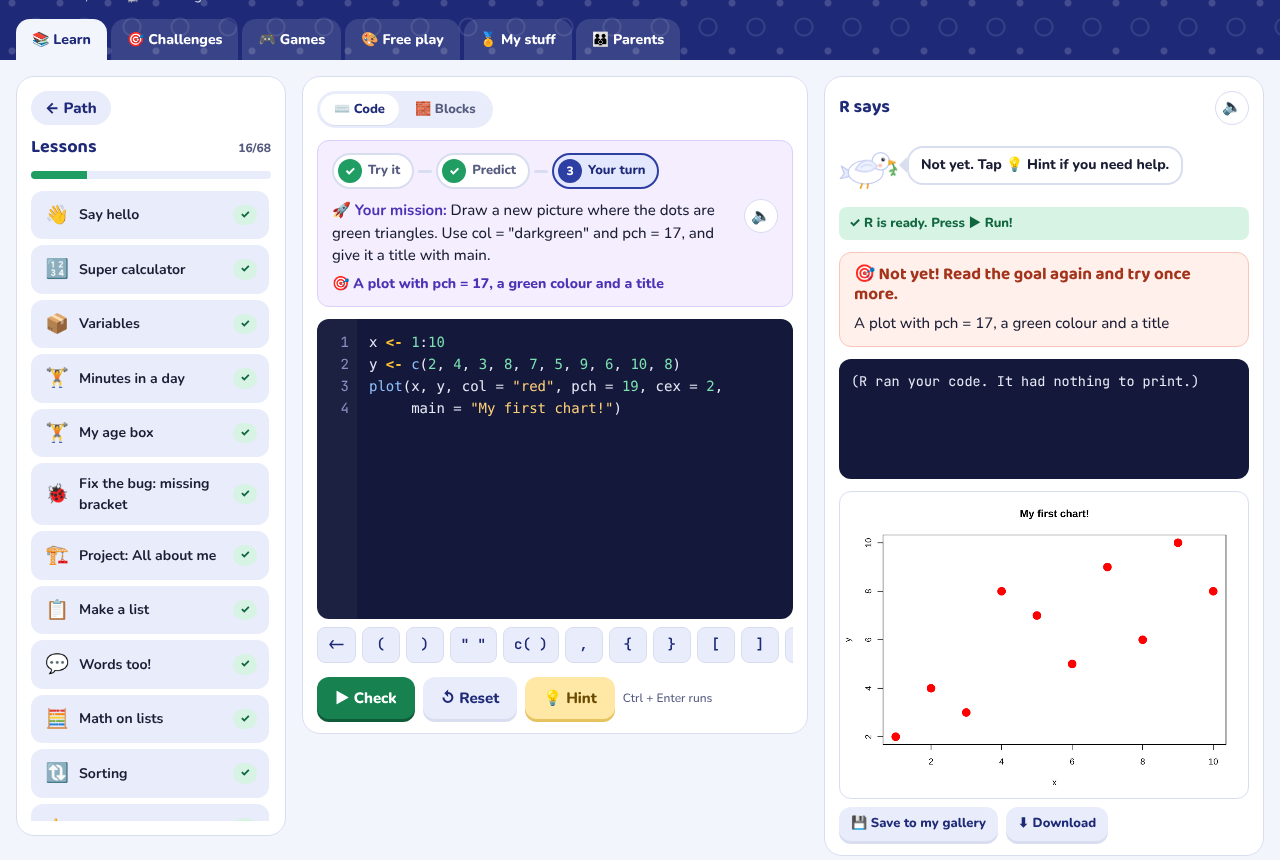
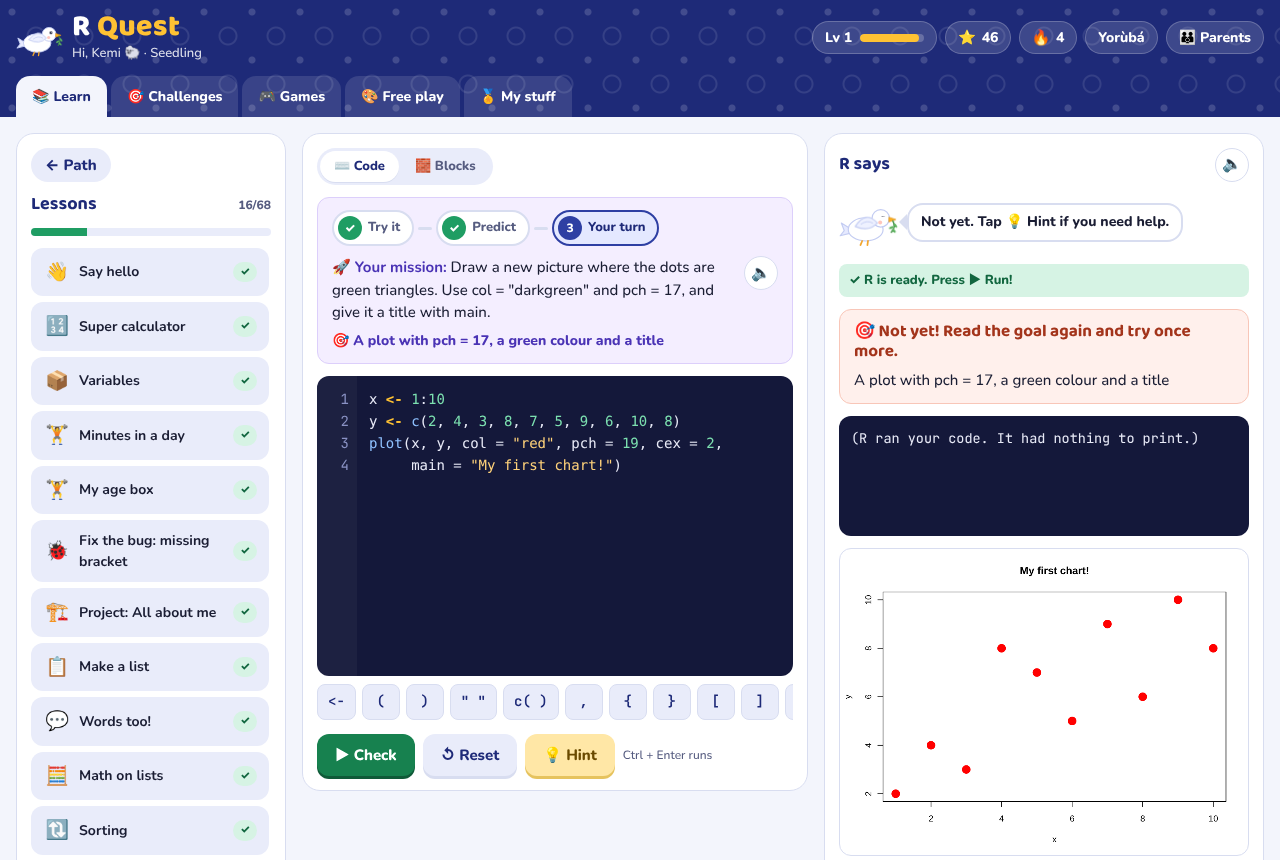
Simpler interface: Parents beside the language button, units open one at a time, privacy note
- Parents moves from the tab row to the header, next to the language button;
  sound and text size live in My stuff > Settings, so the header is shorter
- Tabs fit on phones (icon above the word); no more hidden tabs
- Each unit opens only when the one before is finished; locked units show a
  short line instead of a long list of locked nodes
- 'What you will learn' is open by default and remembers if it is closed
- A short privacy note appears once, after the first finished lesson, with a
  link to the full notice and a button to turn off usage counts
- Removed the duplicate Challenges and Games tiles from the path

Claude-Session: https://claude.ai/code/session_01TK9icYBWm4RS4hdjH1i5D8

diff --git a/index.html b/index.html
@@ -118,6 +118,17 @@
   }
   .tab:hover { background: rgba(255,255,255,.22); }
   .tab[aria-selected="true"] { background: var(--paper); color: var(--indigo); }
+  .parents-pill[aria-pressed="true"] { background: var(--sun); border-color: var(--sun); color: var(--indigo); }
+  @media (max-width: 640px) {
+    .hud { gap: 6px; }
+    .pill { padding: 4px 9px; font-size: 13px; gap: 4px; }
+    .level-bar { display: none; }
+    .tabs { display: grid; grid-template-columns: repeat(5, minmax(0, 1fr)); gap: 3px; overflow: visible; }
+    .tab { display: flex; flex-direction: column; align-items: center; gap: 1px; padding: 7px 2px 8px; font-size: 11.5px; border-radius: 12px 12px 0 0; min-width: 0; }
+    .tab-ic { font-size: 20px; line-height: 1.1; }
+    .tab-tx { max-width: 100%; overflow: hidden; text-overflow: ellipsis; white-space: nowrap; }
+    .kbd { display: none; }
+  }
 
   /* ---------- Studio ---------- */
   .studio {
@@ -645,9 +656,14 @@
   .uage { display: inline-block; margin-top: 4px; font-size: 12px; font-weight: 800; background: rgba(255,255,255,.22); border-radius: 99px; padding: 2px 10px; }
   .uright { display: flex; flex-direction: column; align-items: flex-end; gap: 6px; }
   .cert-btn { border: 0; background: #fff; color: var(--indigo); font-weight: 800; font-size: 13px; border-radius: 99px; padding: 5px 12px; box-shadow: 0 3px 0 rgba(0,0,0,.2); }
-  .uout { margin: 10px 4px 0; font-size: 14px; }
-  .uout summary { cursor: pointer; font-weight: 800; color: var(--muted); }
-  .uout ul { margin: 6px 0 0; padding-left: 20px; display: flex; flex-direction: column; gap: 2px; }
+  .uout { margin: 10px 0 0; font-size: 14px; background: var(--card); border: 1px solid var(--line); border-left: 5px solid var(--u); border-radius: 14px; padding: 10px 14px; }
+  .uout summary { cursor: pointer; font-weight: 800; color: var(--indigo); list-style: none; display: flex; align-items: center; justify-content: space-between; gap: 8px; }
+  .uout summary::-webkit-details-marker { display: none; }
+  .uout summary::after { content: "▾"; font-size: 16px; transition: transform .15s; }
+  .uout:not([open]) summary::after { transform: rotate(-90deg); }
+  .uout ul { margin: 8px 0 0; padding-left: 20px; display: flex; flex-direction: column; gap: 3px; }
+  .unit.locked { background-color: #6E7397; }
+  .ulock { margin: 10px 4px 0; font-weight: 800; color: var(--muted); font-size: 14px; }
   .tile.solved { border-color: var(--leaf); background: #F0FAF4; }
   .grad { margin: 26px auto 0; display: flex; justify-content: center; }
 
@@ -670,6 +686,8 @@
   .moods button[aria-checked="true"] { border-color: var(--sun); background: #FFF3CF; }
   .sheet textarea { width: 100%; border: 2px solid var(--line); border-radius: var(--r-md); padding: 10px 12px; font-size: 15px; resize: vertical; min-height: 80px; }
   .sr-only { position: absolute; width: 1px; height: 1px; overflow: hidden; clip: rect(0 0 0 0); white-space: nowrap; }
+  .pn-list { list-style: none; margin: 0; padding: 0; display: flex; flex-direction: column; gap: 8px; text-align: left; font-weight: 700; }
+  .pn-list li { display: flex; gap: 10px; align-items: flex-start; }
   .fine-link { font-size: 13px; color: var(--indigo-2); font-weight: 800; text-align: center; }
   @media (max-width: 480px) { .moods { grid-template-columns: repeat(3, minmax(0,1fr)); } }
 
@@ -733,9 +751,8 @@
         <span class="pill" title="Stars">⭐ <span id="stars">0</span></span>
         <span class="pill" id="streak-pill" title="Streak"><span class="flame">🔥</span> <span id="streak">0</span></span>
         <span class="pill cloud-pill" id="cloud-pill" hidden>☁</span>
-        <button class="pill" id="sound-btn" type="button" aria-label="Sound on or off">🔊</button>
-        <button class="pill" id="big-btn" type="button" aria-pressed="false" aria-label="Bigger text">A+</button>
         <button class="pill" id="lang-btn" type="button">Yorùbá</button>
+        <button class="pill parents-pill" id="parents-btn" data-tab="parents" type="button" aria-pressed="false">👪 Parents</button>
       </div>
     </div>
     <nav class="tabs" role="tablist" aria-label="Sections">
@@ -744,7 +761,6 @@
       <button class="tab" role="tab" data-tab="games" aria-selected="false">🎮 Games</button>
       <button class="tab" role="tab" data-tab="free" aria-selected="false">🎨 Free play</button>
       <button class="tab" role="tab" data-tab="stuff" aria-selected="false">🏅 My stuff</button>
-      <button class="tab" role="tab" data-tab="parents" aria-selected="false">👪 Parents</button>
     </nav>
   </div>
 </header>
@@ -875,6 +891,18 @@
   <div class="cbox"><div class="big" id="c-emoji">🎉</div><div class="msg" id="c-msg"></div><div class="pts" id="c-pts"></div></div>
 </div>
 <div class="toast" id="toast" role="status" hidden></div>
+<div class="scrim" id="privacy-note" hidden>
+  <div class="sheet center" role="dialog" aria-modal="true" aria-labelledby="pn-title">
+    <span class="sq-big" aria-hidden="true">🔒</span>
+    <h2 id="pn-title">A quick note about privacy</h2>
+    <ul class="pn-list" id="pn-list"></ul>
+    <div class="actions center">
+      <button class="btn btn-run" type="button" id="pn-ok">OK, got it</button>
+      <a class="btn btn-2" href="privacy.html" target="_blank" rel="noopener" id="pn-more">Read more</a>
+    </div>
+    <button class="linkbtn" type="button" id="pn-off">Turn off usage counts</button>
+  </div>
+</div>
 <div class="scrim" id="speedquiz" hidden>
   <div class="sheet wide" role="dialog" aria-modal="true" aria-labelledby="sq-h" id="sq-body"></div>
 </div>
@@ -1008,6 +1036,10 @@ const I18N = {
     del_done: 'Your family account has been deleted.', del_fail: 'Could not delete the account. Please try again, or see the privacy page for help.',
     ob_privacy: "How we protect children's privacy", rep_projects: 'Projects', rep_puzzle: 'puzzle streak',
     usage_switch: 'Share anonymous usage counts (no names) to help improve the lessons',
+    unit_locked: 'Finish Unit {n} to open this unit.',
+    pn_title: 'A quick note about privacy', pn_1: 'Your progress is saved on this device.',
+    pn_2: 'R Quest counts finished lessons, with no names, to make the lessons better.', pn_3: 'No adverts, and we never sell anything.',
+    pn_ok: 'OK, got it', pn_more: 'Read more', pn_off: 'Turn off usage counts', pn_off_done: 'Usage counts are off ✓',
   },
   yo: {
     tab_learn: '📚 Ẹ̀kọ́', tab_challenge: '🎯 Ìdíje', tab_games: '🎮 Eré', tab_free: '🎨 Eré ọ̀fẹ́', tab_stuff: '🏅 Tèmi',
@@ -1099,6 +1131,10 @@ const I18N = {
     del_done: 'A ti pa àkáǹtì ìdílé rẹ rẹ́.', del_fail: 'A kò lè pa àkáǹtì náà rẹ́. Jọ̀wọ́ gbìyànjú lẹ́ẹ̀kan sí, tàbí wo ojú-ìwé àṣírí fún ìrànlọ́wọ́.',
     ob_privacy: 'Bí a ṣe ń dáàbò bo àṣírí àwọn ọmọdé', rep_projects: 'Iṣẹ́ àkànṣe', rep_puzzle: 'àdìtú léraléra',
     usage_switch: 'Pín kíka ìlò láìsí orúkọ láti ràn wá lọ́wọ́ láti mú àwọn ẹ̀kọ́ dára sí i',
+    unit_locked: 'Parí Ìpín {n} láti ṣí ìpín yìí.',
+    pn_title: 'Ọ̀rọ̀ kúkúrú nípa àṣírí', pn_1: 'Ìlọsíwájú rẹ wà ní ìpamọ́ lórí ẹ̀rọ yìí.',
+    pn_2: 'R Quest ń ka àwọn ẹ̀kọ́ tí a parí, láìsí orúkọ, láti mú àwọn ẹ̀kọ́ dára sí i.', pn_3: 'Kò sí ìpolówó, a kò sì ń ta nǹkan kankan.',
+    pn_ok: 'Ó dáa, mo gbọ́', pn_more: 'Kà sí i', pn_off: 'Pa kíka ìlò', pn_off_done: 'A ti pa kíka ìlò ✓',
   }
 };
 
@@ -2086,6 +2122,7 @@ function showView(v) {
 function switchTab(name) {
   tab = name;
   document.querySelectorAll('.tab').forEach(x => x.setAttribute('aria-selected', String(x.dataset.tab === name)));
+  $('parents-btn').setAttribute('aria-pressed', String(name === 'parents'));
   if (hasTTS) { try { speechSynthesis.cancel(); } catch {} }
   if (name === 'stuff') { showView('stuff'); renderStuff(); return; }
   if (name === 'parents') { showView('parents'); renderParents(); return; }
@@ -2114,9 +2151,15 @@ function renderPath() {
   const name = S.name || '';
   const greet = (cur ? tr('greet_path') : tr('greet_done')).replace('{n}', name).replace(/\s+([!,])/, '$1');
   let i = 0;
+  const closed = store.get('rq-closed-units', []) || [];
   const units = UNITS.map((u, ui) => {
     const items = u.ids.map(id => CONTENT.learn.find(x => x.id === id));
     const n = items.filter(x => S.done[x.id]).length;
+    if (!isUnlocked(items[0])) {
+      // A unit opens only when the unit before it is finished.
+      return `<div class="unit locked" style="--u:${u.color}"><div><small>${esc(tr('unit'))} ${ui + 1}</small><h3>${esc(u[S.lang] || u.en)}</h3>${u.age ? `<span class="uage">${esc(tr('age'))} ${esc(u.age)}</span>` : ''}</div><span class="uprog" aria-label="locked">🔒</span></div>`
+        + `<p class="ulock">🔒 ${esc(tr('unit_locked').replace('{n}', ui))}</p>`;
+    }
     const rows = items.map((it) => {
       const idx = CONTENT.learn.indexOf(it);
       const state = S.done[it.id] ? 'done' : (cur && cur.id === it.id) ? 'current' : isUnlocked(it) ? 'open' : 'locked';
@@ -2132,7 +2175,7 @@ function renderPath() {
     const outs = (S.lang === 'yo' && u.outcomes_yo) ? u.outcomes_yo : (u.outcomes || []);
     return `<div class="unit" style="--u:${u.color}"><div><small>${esc(tr('unit'))} ${ui + 1}</small><h3>${esc(u[S.lang] || u.en)}</h3>${u.age ? `<span class="uage">${esc(tr('age'))} ${esc(u.age)}</span>` : ''}</div>`
       + `<div class="uright"><span class="uprog ${full ? 'full' : ''}">${full ? '🏆 ' : ''}${n}/${items.length}</span>${full ? `<button type="button" class="cert-btn" data-cert="${u.id}">${esc(tr('unit_cert'))}</button>` : ''}</div></div>`
-      + (outs.length ? `<details class="uout"><summary>${esc(tr('outcomes'))}</summary><ul>${outs.map(o => `<li>${esc(o)}</li>`).join('')}</ul></details>` : '')
+      + (outs.length ? `<details class="uout" data-unit="${u.id}" style="--u:${u.color}"${closed.includes(u.id) ? '' : ' open'}><summary>📘 ${esc(tr('outcomes'))}</summary><ul>${outs.map(o => `<li>${esc(o)}</li>`).join('')}</ul></details>` : '')
       + `<div class="nodes">${rows}</div>`;
   }).join('');
   $('pathview').innerHTML = `
@@ -2149,12 +2192,16 @@ function renderPath() {
       </div>
       ${dailyTile()}
       <button type="button" class="tile" data-speed="1"><span class="ti" aria-hidden="true">⚡</span><span>${esc(tr('speed_title'))}<small>${esc(tr('speed_s'))}</small></span></button>
-      <button type="button" class="tile" data-go="challenge"><span class="ti" aria-hidden="true">🎯</span><span>${esc(tr('try_ch'))}<small>${esc(tr('try_ch_s'))}</small></span></button>
-      <button type="button" class="tile" data-go="games"><span class="ti" aria-hidden="true">🎮</span><span>${esc(tr('play_game'))}<small>${esc(tr('play_game_s'))}</small></span></button>
     </aside>`;
   requestAnimationFrame(() => requestAnimationFrame(() => { const r = $('goal-ring'); if (r) r.style.strokeDashoffset = String(100 - pct); }));
   const c = $('continue-btn'); if (c) c.onclick = () => { sfx.tap(); openLesson(cur); };
 }
+$('pathview').addEventListener('toggle', (e) => {   // remember which "What you will learn" boxes were closed
+  const d = e.target.closest && e.target.closest('details[data-unit]'); if (!d) return;
+  const set = new Set(store.get('rq-closed-units', []) || []);
+  if (d.open) set.delete(d.dataset.unit); else set.add(d.dataset.unit);
+  store.set('rq-closed-units', [...set]);
+}, true);
 $('pathview').addEventListener('click', (e) => {
   const g = e.target.closest('[data-go]'); if (g) { sfx.tap(); switchTab(g.dataset.go); return; }
   if (e.target.closest('[data-daily]')) { sfx.tap(); openDaily(); return; }
@@ -2453,7 +2500,7 @@ function afterSuccess(code, out, nImages, rres) {
     if (item.daily) solveDaily();
     else if (st) {
       S.stepAt[item.id] = 3;
-      if (first) { track('lesson_done', item.id); S.done[item.id] = true; S.earned[item.id] = 5; addStars(5, unitJustDone(item) ? tr('unit_done') : tr('mission_done')); }
+      if (first) { track('lesson_done', item.id); S.done[item.id] = true; S.earned[item.id] = 5; addStars(5, unitJustDone(item) ? tr('unit_done') : tr('mission_done')); maybePrivacyNote(); }
       else { happy(); sfx.ok(); }
       renderPrompt();
     } else if (first) {
@@ -2531,12 +2578,9 @@ function updateHud() {
   $('lvl-label').textContent = `${S.lang === 'yo' ? 'Ìp' : 'Lv'} ${lvl}`;
   $('lvl-bar').style.width = `${(S.stars % 50) * 2}%`;
   $('who').textContent = S.name ? `${tr('hello')}, ${S.name} ${S.avatar} · ${levelName()}` : '';
-  $('sound-btn').textContent = S.sound ? '🔊' : '🔇';
   S.big = S.textSize >= 1;
   document.body.classList.toggle('big', S.textSize >= 1); document.body.classList.toggle('bigger', S.textSize >= 2);
   document.body.classList.toggle('contrast', !!S.contrast); document.body.classList.toggle('calm', !!S.calm);
-  $('big-btn').setAttribute('aria-pressed', String(S.textSize > 0)); $('big-btn').title = tr('big_text');
-  $('big-btn').textContent = S.textSize >= 2 ? 'A++' : 'A+';
   $('lang-btn').textContent = S.lang === 'en' ? 'Yorùbá' : 'English';
 }
 const levelName = () => { const names = tr('lvl_names'); return names[Math.min(Math.floor(S.stars / 50), names.length - 1)]; };
@@ -3040,7 +3084,11 @@ $('onboard-form').addEventListener('submit', (e) => {
 /* ---------- language ---------- */
 function applyLang() {
   document.documentElement.lang = S.lang === 'yo' ? 'yo' : 'en';
-  document.querySelectorAll('.tab').forEach(t => { t.textContent = tr('tab_' + t.dataset.tab); });
+  document.querySelectorAll('.tab').forEach(t => {
+    const [ic, ...words] = tr('tab_' + t.dataset.tab).split(' ');
+    t.innerHTML = `<span class="tab-ic" aria-hidden="true">${ic}</span> <span class="tab-tx">${esc(words.join(' '))}</span>`;
+  });
+  $('parents-btn').textContent = tr('tab_parents');
   $('mode-code').textContent = tr('mode_code'); $('mode-blocks').textContent = tr('mode_blocks');
   $('reset').textContent = tr('reset'); $('kbd').textContent = tr('kbd'); $('out-title').textContent = tr('out_title');
   renderPalette();
@@ -3061,8 +3109,7 @@ function applyLang() {
   if (mode === 'blocks') renderBlocks();
 }
 $('lang-btn').addEventListener('click', () => { S.lang = S.lang === 'en' ? 'yo' : 'en'; save(); applyLang(); sfx.tap(); });
-$('sound-btn').addEventListener('click', () => { S.sound = !S.sound; save(); updateHud(); sfx.tap(); });
-$('big-btn').addEventListener('click', () => { S.textSize = (S.textSize + 1) % 3; save(); updateHud(); if (tab === 'stuff') renderSettings(); sfx.tap(); });
+$('parents-btn').addEventListener('click', () => { sfx.tap(); switchTab('parents'); });
 $('prompt').addEventListener('click', (e) => { if (e.target.closest('[data-speak]')) { const el = $('prompt').querySelector('.prompt-row > div'); speak(el ? el.innerText : ''); } });
 $('speak-out').addEventListener('click', () => { const oo = $('oops'); speak((oo.hidden ? '' : oo.innerText.split('\n').slice(0, 2).join('. ') + '. ') + $('out').textContent); });
 
@@ -3078,6 +3125,27 @@ function celebrate(pts, msg) {
   box.hidden = false; happy(); sfx.win();
   setTimeout(() => { box.hidden = true; }, 2100);
 }
+
+/* ---------- a short privacy note, shown once after the first finished lesson ---------- */
+function maybePrivacyNote() {
+  if (store.get('rq-privacy-seen', false)) return;
+  store.set('rq-privacy-seen', true);
+  setTimeout(showPrivacyNote, 2300);
+}
+function showPrivacyNote() {
+  lastFocus = document.activeElement;
+  $('pn-title').textContent = tr('pn_title');
+  $('pn-list').innerHTML = [['💾', 'pn_1'], ...(cloudOn ? [['📊', 'pn_2']] : []), ['🚫', 'pn_3']].map(([e, k]) => `<li><span aria-hidden="true">${e}</span><span>${esc(tr(k))}</span></li>`).join('');
+  $('pn-ok').textContent = tr('pn_ok'); $('pn-more').textContent = tr('pn_more');
+  $('pn-off').textContent = tr('pn_off'); $('pn-off').hidden = !cloudOn || usageOff(); $('pn-off').disabled = false;
+  $('privacy-note').hidden = false; $('pn-ok').focus();
+}
+function closePrivacyNote() { $('privacy-note').hidden = true; lastFocus?.focus?.(); }
+$('pn-ok').addEventListener('click', () => { sfx.tap(); closePrivacyNote(); });
+$('pn-off').addEventListener('click', () => {
+  store.set('rq-no-usage', true); evq = []; store.set('rq-evq', evq);
+  $('pn-off').textContent = tr('pn_off_done'); $('pn-off').disabled = true; sfx.tap();
+});
 
 /* ---------- daily puzzle ---------- */
 let lastFocus = null;
@@ -3320,7 +3388,7 @@ $('feedback').addEventListener('click', (e) => { if (e.target.id === 'feedback')
 $('fb-btn').addEventListener('click', () => openFeedback(item && item.id));
 addEventListener('keydown', (e) => {
   if (e.key !== 'Escape') return;
-  if (!$('speedquiz').hidden) closeSpeed(); else if (!$('cert').hidden) closeCert(); else if (!$('feedback').hidden) closeFeedback();
+  if (!$('speedquiz').hidden) closeSpeed(); else if (!$('cert').hidden) closeCert(); else if (!$('feedback').hidden) closeFeedback(); else if (!$('privacy-note').hidden) closePrivacyNote();
 });
 
 /* Read-only view of the content, for the tests and the translation tools. */

diff --git a/tests/app.spec.js b/tests/app.spec.js
@@ -19,6 +19,49 @@ test('onboarding needs a name, then shows the learning path @phone', async ({ pa
   await expect(page.locator('.hero .bubble')).toContainText('Kemi');
   const [scrollWidth, width] = await page.evaluate(() => [document.documentElement.scrollWidth, innerWidth]);
   expect(scrollWidth).toBeLessThanOrEqual(width);
+  // Every tab and the Parents button fit on the screen without scrolling sideways.
+  for (const sel of ['[data-tab="learn"]', '[data-tab="stuff"]', '#parents-btn', '#lang-btn']) {
+    const box = await page.locator(sel).boundingBox();
+    expect(box.x).toBeGreaterThanOrEqual(0);
+    expect(box.x + box.width).toBeLessThanOrEqual(width);
+  }
+});
+
+test('units open one at a time, and "What you will learn" is open but can be closed', async ({ page }) => {
+  await onboard(page);
+  await expect(page.locator('.unit.locked')).toHaveCount(7);
+  await expect(page.locator('.ulock').first()).toHaveText('🔒 Finish Unit 1 to open this unit.');
+  await expect(page.locator('.node[data-id="L4"]')).toHaveCount(0);
+  const learn = page.locator('details.uout[data-unit="u1"]');
+  await expect(learn).toHaveAttribute('open', '');
+  await expect(learn).toContainText('Use R as a calculator');
+  await learn.locator('summary').click();
+  await expect(learn).not.toHaveAttribute('open', '');
+  await page.reload();
+  await expect(page.locator('details.uout[data-unit="u1"]')).not.toHaveAttribute('open', '');
+  await page.evaluate(() => { const s = JSON.parse(localStorage.getItem('rq2-state')); ['L1', 'L2', 'L3', 'E1', 'E2', 'B1'].forEach(i => { s.done[i] = 1; }); localStorage.setItem('rq2-state', JSON.stringify(s)); });
+  await page.reload();
+  await expect(page.locator('.unit.locked')).toHaveCount(6);
+  await expect(page.locator('.node[data-id="L4"]')).not.toHaveClass(/locked/);
+});
+
+test('a short privacy note appears once, after the first lesson', async ({ page, context }) => {
+  await context.addInitScript('localStorage.removeItem("rq-privacy-seen");');
+  await onboard(page);
+  await waitForR(page);
+  await page.click('#continue-btn');
+  await finishLesson(page);
+  await expect(page.locator('#privacy-note')).toBeVisible({ timeout: 6000 });
+  await expect(page.locator('#pn-list')).toContainText('saved on this device');
+  await page.click('#pn-off');
+  await expect(page.locator('#pn-off')).toHaveText(/off/);
+  expect(await page.evaluate(() => localStorage.getItem('rq-no-usage'))).toBe('true');
+  await page.click('#pn-ok');
+  await expect(page.locator('#privacy-note')).toBeHidden();
+  await page.click('#next-btn');
+  await finishLesson(page);
+  await page.waitForTimeout(3000);
+  await expect(page.locator('#privacy-note')).toBeHidden();
 });
 
 test('locked lessons stay locked until the one before is finished', async ({ page }) => {
@@ -284,7 +327,8 @@ test('settings change text size, contrast and motion, and are remembered', async
   await expect(page.locator('body')).toHaveClass(/calm/);
   await page.reload();
   await expect(page.locator('body')).toHaveClass(/contrast/);
-  await expect(page.locator('#big-btn')).toHaveText('A++');
+  await page.click('[data-tab="stuff"]');
+  await expect(page.locator('[data-ts="2"]')).toHaveAttribute('aria-pressed', 'true');
 });
 
 test('feedback is sent with emails and phone numbers removed', async ({ page }) => {

diff --git a/tests/helpers.js b/tests/helpers.js
@@ -64,7 +64,9 @@ function makeBackend() {
 async function setupContext(context, backend) {
   await context.exposeFunction('__sb', (op, args) => backend.handle(op, args));
   const webr = process.env.WEBR_DIR ? 'window.RQ_WEBR_BASE = "/webr/";' : '';
-  await context.addInitScript(webr + FAKE_SUPABASE);
+  // The one-time privacy note is tested on its own; elsewhere it is marked as already seen.
+  const seen = 'try { if (!window.RQ_PRIVACY_TEST) localStorage.setItem("rq-privacy-seen", "true"); } catch (e) {}';
+  await context.addInitScript(webr + seen + FAKE_SUPABASE);
   await context.route('https://fake-project.supabase.co/rest/v1/**', async (route) => {
     const req = route.request();
     const body = req.postDataJSON();

diff --git a/tests/content.spec.js b/tests/content.spec.js
@@ -13,7 +13,7 @@ test('every lesson step and activity can be solved, and has Yorùbá', async ({ 
   test.setTimeout(1_800_000);
   await setupContext(context, makeBackend());
   await page.goto('/');
-  const ids = await page.evaluate(() => [...document.querySelectorAll('.node')].map(n => n.dataset.id));
+  const ids = await page.evaluate(() => window.__RQ__.CONTENT.learn.map(it => it.id));
   expect(ids.length).toBeGreaterThan(60);
   // Mark everything done so every node and step is open.
   // Predict answers are marked as already answered, so no bonus stars (and no level-up pop-ups) get in the way.
